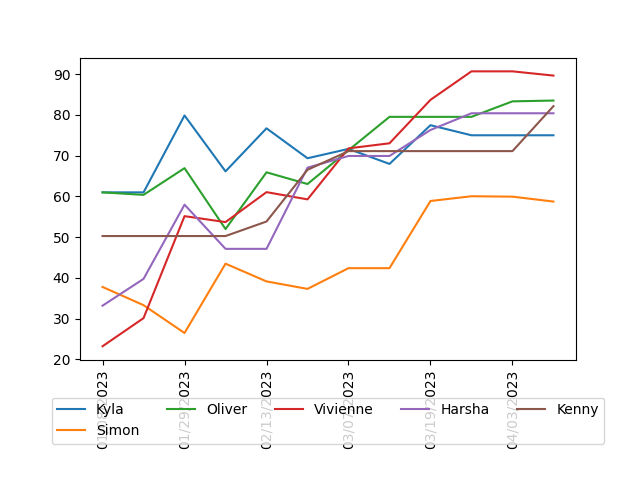
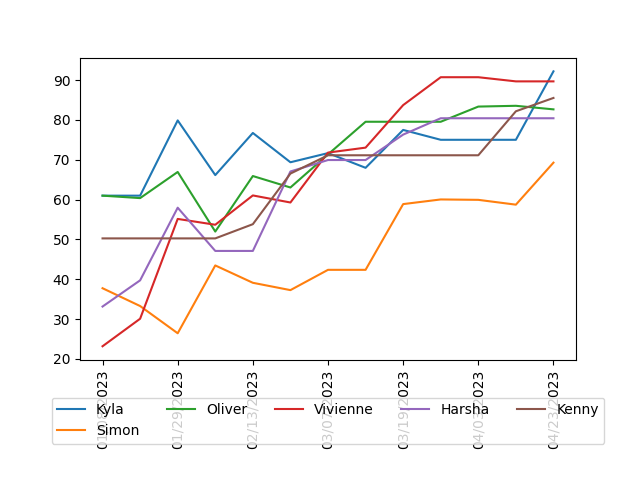
update rankings

diff --git a/README.md b/README.md
@@ -5,39 +5,39 @@
 
 | Player | ELO | Wins | Losses | Win % | Best Game |
 | --- | --- | --- | --- | --- | --- |
-| Vivienne | 89.67 | 23 | 13 | 0.64 | Secret Hitler |
-| Oliver | 83.54 | 19 | 20 | 0.49 | Secret Hitler |
-| Kenny | 82.16 | 14 | 10 | 0.58 | Secret Hitler |
-| Harsha | 80.41 | 17 | 16 | 0.52 | Secret Hitler |
-| Dan | 77.85 | 3 | 5 | 0.38 | Secret Hitler |
-| Kyla | 75.00 | 21 | 19 | 0.53 | Secret Hitler |
-| Karen | 69.00 | 2 | 1 | 0.67 | Codenames |
-| Diana | 64.95 | 2 | 2 | 0.50 | Codenames |
-| Rob | 63.15 | 3 | 1 | 0.75 | Codenames |
-| Simon | 58.73 | 14 | 23 | 0.38 | Wavelength |
-| Frances | 52.22 | 3 | 1 | 0.75 | Codenames |
-| Aaron | 49.47 | 6 | 10 | 0.38 | Incan Gold |
-| Jason | 47.52 | 3 | 4 | 0.43 | Wavelength |
-| Abhi | 47.51 | 3 | 3 | 0.50 | Wavelength |
-| Kai | 47.09 | 5 | 7 | 0.42 | Secret Hitler |
-| Leo | 45.47 | 1 | 4 | 0.20 | Incan Gold |
-| Queenie | 43.87 | 4 | 8 | 0.33 | Secret Hitler |
-| Fred | 43.59 | 1 | 1 | 0.50 | Codenames |
-| Eunice | 41.96 | 1 | 1 | 0.50 | Wavelength |
-| Dari | 41.73 | 2 | 2 | 0.50 | Codenames |
-| Yoyo | 41.68 | 1 | 1 | 0.50 | Secret Hitler |
-| Ellabelle | 38.67 | 1 | 7 | 0.12 | Avalon |
-| Nikiny | 37.56 | 3 | 9 | 0.25 | Secret Hitler |
-| Calvin | 31.25 | 3 | 7 | 0.30 | Secret Hitler |
-| Agnes | 27.82 | 1 | 4 | 0.20 | Avalon |
-| Peter | 25.71 | 2 | 4 | 0.33 | Secret Hitler |
-| Katrina | 25.63 | 2 | 3 | 0.40 | Codenames |
-| Ashley | 21.75 | 0 | 2 | 0.00 | Secret Hitler |
-| Sandy | 21.08 | 0 | 2 | 0.00 | Codenames |
-| Vivian | 18.94 | 0 | 2 | 0.00 | Secret Hitler |
-| Louise | 15.50 | 0 | 5 | 0.00 | Incan Gold |
-| Shirley | 8.62 | 0 | 4 | 0.00 | Wavelength |
-| Dorine | 1.92 | 0 | 6 | 0.00 | Incan Gold |
+| Kyla | 92.18 | 24 | 21 | 53% | Secret Hitler |
+| Vivienne | 89.67 | 23 | 13 | 64% | Secret Hitler |
+| Nikiny | 88.92 | 6 | 12 | 33% | Cash n Guns |
+| Kenny | 85.50 | 15 | 13 | 54% | Cash n Guns |
+| Oliver | 82.64 | 21 | 22 | 49% | Secret Hitler |
+| Harsha | 80.41 | 17 | 16 | 52% | Secret Hitler |
+| Dan | 77.85 | 3 | 5 | 38% | Secret Hitler |
+| Simon | 69.27 | 16 | 27 | 37% | Cash n Guns |
+| Karen | 69.00 | 2 | 1 | 67% | Codenames |
+| Rob | 63.15 | 3 | 1 | 75% | Codenames |
+| Frances | 52.22 | 3 | 1 | 75% | Codenames |
+| Diana | 51.37 | 2 | 5 | 29% | Codenames |
+| Aaron | 49.47 | 6 | 10 | 38% | Incan Gold |
+| Jason | 47.52 | 3 | 4 | 43% | Wavelength |
+| Abhi | 47.51 | 3 | 3 | 50% | Wavelength |
+| Kai | 47.09 | 5 | 7 | 42% | Secret Hitler |
+| Calvin | 44.01 | 4 | 9 | 31% | Secret Hitler |
+| Queenie | 43.87 | 4 | 8 | 33% | Secret Hitler |
+| Fred | 43.59 | 1 | 1 | 50% | Codenames |
+| Peter | 43.44 | 5 | 4 | 56% | Secret Hitler |
+| Eunice | 41.96 | 1 | 1 | 50% | Wavelength |
+| Dari | 41.73 | 2 | 2 | 50% | Codenames |
+| Yoyo | 41.68 | 1 | 1 | 50% | Secret Hitler |
+| Leo | 38.87 | 3 | 6 | 33% | Secret Hitler |
+| Ellabelle | 38.67 | 1 | 7 | 12% | Avalon |
+| Agnes | 27.82 | 1 | 4 | 20% | Avalon |
+| Katrina | 25.63 | 2 | 3 | 40% | Codenames |
+| Ashley | 21.75 | 0 | 2 | 0% | Secret Hitler |
+| Sandy | 21.08 | 0 | 2 | 0% | Codenames |
+| Vivian | 18.94 | 0 | 2 | 0% | Secret Hitler |
+| Louise | 15.50 | 0 | 5 | 0% | Incan Gold |
+| Shirley | 8.62 | 0 | 4 | 0% | Wavelength |
+| Dorine | 1.92 | 0 | 6 | 0% | Incan Gold |
 
 ### Rankings over Time
 ![Image](rankings.png)
@@ -48,177 +48,189 @@
 
 | Player | ELO | Wins | Losses | Win % |
 | --- | --- | --- | --- | --- |
-| Kyla | 80.73  | 9 | 5 | 0.64 |
-| Oliver | 77.95  | 8 | 3 | 0.73 |
-| Vivienne | 76.61  | 10 | 5 | 0.67 |
-| Kenny | 68.54  | 6 | 1 | 0.86 |
-| Harsha | 66.61  | 9 | 6 | 0.60 |
-| Dan | 56.48  | 2 | 0 | 1.00 |
-| Queenie | 55.89  | 3 | 0 | 1.00 |
-| Calvin | 47.50  | 2 | 1 | 0.67 |
-| Rob | 44.11  | 1 | 1 | 0.50 |
-| Abhi | 42.83  | 1 | 0 | 1.00 |
-| Jason | 42.83  | 1 | 0 | 1.00 |
-| Peter | 42.83  | 1 | 0 | 1.00 |
-| Simon | 42.75  | 6 | 7 | 0.46 |
-| Leo | 42.69  | 1 | 0 | 1.00 |
-| Aaron | 41.58  | 2 | 1 | 0.67 |
-| Kai | 41.02  | 2 | 2 | 0.50 |
-| Yoyo | 38.85  | 1 | 1 | 0.50 |
-| Nikiny | 36.43  | 2 | 2 | 0.50 |
-| Dari | 34.62  | 1 | 2 | 0.33 |
-| Frances | 30.73  | 1 | 1 | 0.50 |
-| Karen | 28.14  | 0 | 1 | 0.00 |
-| Diana | 28.14  | 0 | 1 | 0.00 |
-| Vivian | 27.44  | 0 | 1 | 0.00 |
-| Eunice | 27.44  | 0 | 1 | 0.00 |
-| Fred | 27.33  | 0 | 1 | 0.00 |
-| Sandy | 26.10  | 0 | 1 | 0.00 |
-| Ellabelle | 24.10  | 0 | 2 | 0.00 |
-| Ashley | 24.10  | 0 | 2 | 0.00 |
-| Shirley | 21.38  | 0 | 2 | 0.00 |
-| Dorine | 19.94  | 0 | 2 | 0.00 |
+| Kyla | 83.77  | 10 | 5 | 67% |
+| Oliver | 81.64  | 9 | 3 | 75% |
+| Vivienne | 76.61  | 10 | 5 | 67% |
+| Harsha | 66.61  | 9 | 6 | 60% |
+| Kenny | 65.81  | 6 | 2 | 75% |
+| Dan | 56.48  | 2 | 0 | 100% |
+| Queenie | 55.89  | 3 | 0 | 100% |
+| Peter | 49.06  | 2 | 0 | 100% |
+| Leo | 48.95  | 2 | 0 | 100% |
+| Calvin | 47.50  | 2 | 1 | 67% |
+| Rob | 44.11  | 1 | 1 | 50% |
+| Abhi | 42.83  | 1 | 0 | 100% |
+| Jason | 42.83  | 1 | 0 | 100% |
+| Aaron | 41.58  | 2 | 1 | 67% |
+| Nikiny | 41.53  | 3 | 2 | 60% |
+| Kai | 41.02  | 2 | 2 | 50% |
+| Simon | 40.78  | 6 | 8 | 43% |
+| Yoyo | 38.85  | 1 | 1 | 50% |
+| Dari | 34.62  | 1 | 2 | 33% |
+| Frances | 30.73  | 1 | 1 | 50% |
+| Karen | 28.14  | 0 | 1 | 0% |
+| Vivian | 27.44  | 0 | 1 | 0% |
+| Eunice | 27.44  | 0 | 1 | 0% |
+| Fred | 27.33  | 0 | 1 | 0% |
+| Sandy | 26.10  | 0 | 1 | 0% |
+| Diana | 24.92  | 0 | 2 | 0% |
+| Ellabelle | 24.10  | 0 | 2 | 0% |
+| Ashley | 24.10  | 0 | 2 | 0% |
+| Shirley | 21.38  | 0 | 2 | 0% |
+| Dorine | 19.94  | 0 | 2 | 0% |
 
 ### Codenames
 
 | Player | ELO | Wins | Losses | Win % |
 | --- | --- | --- | --- | --- |
-| Vivienne | 75.08  | 7 | 2 | 0.78 |
-| Kenny | 56.55  | 4 | 2 | 0.67 |
-| Harsha | 56.24  | 5 | 3 | 0.62 |
-| Kyla | 52.00  | 6 | 4 | 0.60 |
-| Diana | 50.80  | 1 | 0 | 1.00 |
-| Karen | 50.80  | 1 | 0 | 1.00 |
-| Fred | 48.43  | 1 | 0 | 1.00 |
-| Rob | 48.41  | 1 | 0 | 1.00 |
-| Frances | 48.41  | 1 | 0 | 1.00 |
-| Katrina | 46.85  | 2 | 0 | 1.00 |
-| Dari | 46.30  | 1 | 0 | 1.00 |
-| Simon | 42.53  | 4 | 6 | 0.40 |
-| Oliver | 39.10  | 4 | 4 | 0.50 |
-| Nikiny | 34.05  | 1 | 2 | 0.33 |
-| Kai | 33.68  | 1 | 2 | 0.33 |
-| Aaron | 32.97  | 1 | 3 | 0.25 |
-| Ellabelle | 27.70  | 0 | 1 | 0.00 |
-| Sandy | 26.42  | 0 | 1 | 0.00 |
-| Dorine | 26.24  | 0 | 1 | 0.00 |
-| Louise | 25.05  | 0 | 2 | 0.00 |
-| Jason | 25.05  | 0 | 2 | 0.00 |
-| Agnes | 25.05  | 0 | 2 | 0.00 |
-| Calvin | 23.92  | 1 | 3 | 0.25 |
-| Shirley | 23.77  | 0 | 1 | 0.00 |
-| Dan | 23.44  | 0 | 2 | 0.00 |
-| Leo | 23.00  | 0 | 1 | 0.00 |
-| Queenie | 17.80  | 0 | 2 | 0.00 |
+| Vivienne | 75.08  | 7 | 2 | 78% |
+| Kenny | 57.00  | 5 | 3 | 62% |
+| Kyla | 56.75  | 7 | 5 | 58% |
+| Harsha | 56.24  | 5 | 3 | 62% |
+| Diana | 50.80  | 1 | 0 | 100% |
+| Karen | 50.80  | 1 | 0 | 100% |
+| Fred | 48.43  | 1 | 0 | 100% |
+| Rob | 48.41  | 1 | 0 | 100% |
+| Frances | 48.41  | 1 | 0 | 100% |
+| Katrina | 46.85  | 2 | 0 | 100% |
+| Dari | 46.30  | 1 | 0 | 100% |
+| Oliver | 44.53  | 5 | 5 | 50% |
+| Simon | 42.48  | 5 | 7 | 42% |
+| Nikiny | 34.91  | 2 | 3 | 40% |
+| Kai | 33.68  | 1 | 2 | 33% |
+| Aaron | 32.97  | 1 | 3 | 25% |
+| Leo | 31.58  | 1 | 2 | 33% |
+| Ellabelle | 27.70  | 0 | 1 | 0% |
+| Sandy | 26.42  | 0 | 1 | 0% |
+| Dorine | 26.24  | 0 | 1 | 0% |
+| Louise | 25.05  | 0 | 2 | 0% |
+| Jason | 25.05  | 0 | 2 | 0% |
+| Agnes | 25.05  | 0 | 2 | 0% |
+| Calvin | 24.79  | 2 | 4 | 33% |
+| Shirley | 23.77  | 0 | 1 | 0% |
+| Dan | 23.44  | 0 | 2 | 0% |
+| Queenie | 17.80  | 0 | 2 | 0% |
 
 ### Exploding Kittens
 
 | Player | ELO | Wins | Losses | Win % |
 | --- | --- | --- | --- | --- |
-| Simon | 41.65  | 1 | 0 | 1.00 |
-| Vivienne | 38.65  | 1 | 0 | 1.00 |
-| Queenie | 37.45  | 0 | 1 | 0.00 |
-| Oliver | 34.08  | 0 | 2 | 0.00 |
-| Kenny | 33.17  | 0 | 1 | 0.00 |
-| Harsha | 33.17  | 0 | 1 | 0.00 |
-| Kyla | 33.17  | 0 | 1 | 0.00 |
-| Abhi | 30.97  | 0 | 1 | 0.00 |
-| Peter | 26.43  | 0 | 1 | 0.00 |
+| Simon | 41.65  | 1 | 0 | 100% |
+| Vivienne | 38.65  | 1 | 0 | 100% |
+| Queenie | 37.45  | 0 | 1 | 0% |
+| Oliver | 34.08  | 0 | 2 | 0% |
+| Kenny | 33.17  | 0 | 1 | 0% |
+| Harsha | 33.17  | 0 | 1 | 0% |
+| Kyla | 33.17  | 0 | 1 | 0% |
+| Abhi | 30.97  | 0 | 1 | 0% |
+| Peter | 26.43  | 0 | 1 | 0% |
 
 ### Wavelength
 
 | Player | ELO | Wins | Losses | Win % |
 | --- | --- | --- | --- | --- |
-| Queenie | 50.35  | 1 | 0 | 1.00 |
-| Harsha | 46.20  | 3 | 2 | 0.60 |
-| Simon | 45.90  | 2 | 2 | 0.50 |
-| Diana | 43.98  | 1 | 0 | 1.00 |
-| Karen | 43.98  | 1 | 0 | 1.00 |
-| Jason | 43.90  | 1 | 0 | 1.00 |
-| Eunice | 43.90  | 1 | 0 | 1.00 |
-| Abhi | 42.90  | 1 | 1 | 0.50 |
-| Rob | 41.34  | 1 | 0 | 1.00 |
-| Frances | 41.34  | 1 | 0 | 1.00 |
-| Kenny | 41.34  | 1 | 0 | 1.00 |
-| Kyla | 35.21  | 1 | 3 | 0.25 |
-| Vivienne | 35.21  | 1 | 3 | 0.25 |
-| Kai | 35.16  | 1 | 1 | 0.50 |
-| Oliver | 30.95  | 1 | 3 | 0.25 |
-| Shirley | 28.60  | 0 | 1 | 0.00 |
-| Vivian | 27.08  | 0 | 1 | 0.00 |
-| Dorine | 23.89  | 0 | 1 | 0.00 |
-| Peter | 17.56  | 0 | 2 | 0.00 |
+| Queenie | 50.35  | 1 | 0 | 100% |
+| Harsha | 46.20  | 3 | 2 | 60% |
+| Simon | 45.90  | 2 | 2 | 50% |
+| Diana | 43.98  | 1 | 0 | 100% |
+| Karen | 43.98  | 1 | 0 | 100% |
+| Jason | 43.90  | 1 | 0 | 100% |
+| Eunice | 43.90  | 1 | 0 | 100% |
+| Abhi | 42.90  | 1 | 1 | 50% |
+| Rob | 41.34  | 1 | 0 | 100% |
+| Frances | 41.34  | 1 | 0 | 100% |
+| Kenny | 41.34  | 1 | 0 | 100% |
+| Kyla | 35.21  | 1 | 3 | 25% |
+| Vivienne | 35.21  | 1 | 3 | 25% |
+| Kai | 35.16  | 1 | 1 | 50% |
+| Oliver | 30.95  | 1 | 3 | 25% |
+| Shirley | 28.60  | 0 | 1 | 0% |
+| Vivian | 27.08  | 0 | 1 | 0% |
+| Dorine | 23.89  | 0 | 1 | 0% |
+| Peter | 17.56  | 0 | 2 | 0% |
 
 ### Incan Gold
 
 | Player | ELO | Wins | Losses | Win % |
 | --- | --- | --- | --- | --- |
-| Kyla | 50.64  | 2 | 3 | 0.40 |
-| Vivienne | 48.37  | 3 | 2 | 0.60 |
-| Leo | 46.47  | 0 | 3 | 0.00 |
-| Aaron | 44.91  | 2 | 2 | 0.50 |
-| Kenny | 42.58  | 1 | 3 | 0.25 |
-| Kai | 40.48  | 1 | 2 | 0.33 |
-| Abhi | 38.64  | 1 | 1 | 0.50 |
-| Oliver | 37.80  | 0 | 6 | 0.00 |
-| Harsha | 37.72  | 0 | 4 | 0.00 |
-| Peter | 37.62  | 1 | 1 | 0.50 |
-| Calvin | 35.37  | 0 | 1 | 0.00 |
-| Dan | 34.54  | 0 | 1 | 0.00 |
-| Louise | 33.38  | 0 | 1 | 0.00 |
-| Agnes | 31.27  | 0 | 1 | 0.00 |
-| Dorine | 31.00  | 0 | 2 | 0.00 |
-| Diana | 30.06  | 0 | 1 | 0.00 |
-| Nikiny | 29.27  | 0 | 5 | 0.00 |
-| Jason | 28.73  | 0 | 1 | 0.00 |
-| Queenie | 26.65  | 0 | 2 | 0.00 |
-| Katrina | 24.83  | 0 | 1 | 0.00 |
-| Simon | 21.84  | 1 | 6 | 0.14 |
+| Kyla | 53.22  | 3 | 3 | 50% |
+| Vivienne | 48.37  | 3 | 2 | 60% |
+| Peter | 46.73  | 3 | 1 | 75% |
+| Leo | 46.47  | 0 | 3 | 0% |
+| Aaron | 44.91  | 2 | 2 | 50% |
+| Kenny | 42.58  | 1 | 3 | 25% |
+| Kai | 40.48  | 1 | 2 | 33% |
+| Abhi | 38.64  | 1 | 1 | 50% |
+| Oliver | 37.80  | 0 | 6 | 0% |
+| Harsha | 37.72  | 0 | 4 | 0% |
+| Calvin | 35.37  | 0 | 1 | 0% |
+| Dan | 34.54  | 0 | 1 | 0% |
+| Louise | 33.38  | 0 | 1 | 0% |
+| Agnes | 31.27  | 0 | 1 | 0% |
+| Dorine | 31.00  | 0 | 2 | 0% |
+| Nikiny | 30.40  | 0 | 7 | 0% |
+| Jason | 28.73  | 0 | 1 | 0% |
+| Queenie | 26.65  | 0 | 2 | 0% |
+| Katrina | 24.83  | 0 | 1 | 0% |
+| Simon | 23.26  | 2 | 7 | 22% |
+| Diana | 21.98  | 0 | 3 | 0% |
 
 ### Avalon
 
 | Player | ELO | Wins | Losses | Win % |
 | --- | --- | --- | --- | --- |
-| Oliver | 59.76  | 3 | 0 | 1.00 |
-| Ellabelle | 44.78  | 1 | 0 | 1.00 |
-| Dan | 44.78  | 1 | 0 | 1.00 |
-| Aaron | 36.60  | 1 | 1 | 0.50 |
-| Jason | 36.60  | 1 | 1 | 0.50 |
-| Agnes | 35.62  | 1 | 1 | 0.50 |
-| Kyla | 30.11  | 1 | 2 | 0.33 |
-| Vivienne | 27.46  | 0 | 1 | 0.00 |
-| Katrina | 22.86  | 0 | 2 | 0.00 |
-| Louise | 22.86  | 0 | 2 | 0.00 |
-| Calvin | 22.86  | 0 | 2 | 0.00 |
-| Kenny | 22.86  | 0 | 2 | 0.00 |
+| Oliver | 59.76  | 3 | 0 | 100% |
+| Ellabelle | 44.78  | 1 | 0 | 100% |
+| Dan | 44.78  | 1 | 0 | 100% |
+| Aaron | 36.60  | 1 | 1 | 50% |
+| Jason | 36.60  | 1 | 1 | 50% |
+| Agnes | 35.62  | 1 | 1 | 50% |
+| Kyla | 30.11  | 1 | 2 | 33% |
+| Vivienne | 27.46  | 0 | 1 | 0% |
+| Katrina | 22.86  | 0 | 2 | 0% |
+| Louise | 22.86  | 0 | 2 | 0% |
+| Calvin | 22.86  | 0 | 2 | 0% |
+| Kenny | 22.86  | 0 | 2 | 0% |
 
 ### Coup
 
 | Player | ELO | Wins | Losses | Win % |
 | --- | --- | --- | --- | --- |
-| Kenny | 51.20  | 1 | 0 | 1.00 |
-| Queenie | 36.91  | 0 | 1 | 0.00 |
-| Aaron | 36.91  | 0 | 1 | 0.00 |
-| Oliver | 36.91  | 0 | 1 | 0.00 |
+| Kenny | 51.20  | 1 | 0 | 100% |
+| Queenie | 36.91  | 0 | 1 | 0% |
+| Aaron | 36.91  | 0 | 1 | 0% |
+| Oliver | 36.91  | 0 | 1 | 0% |
 
 ### Shifty Eyed Spies
 
 | Player | ELO | Wins | Losses | Win % |
 | --- | --- | --- | --- | --- |
-| Oliver | 50.91  | 2 | 0 | 1.00 |
-| Kyla | 40.88  | 1 | 0 | 1.00 |
-| Kenny | 39.74  | 1 | 1 | 0.50 |
-| Queenie | 22.92  | 0 | 2 | 0.00 |
-| Ellabelle | 22.92  | 0 | 2 | 0.00 |
-| Aaron | 22.92  | 0 | 2 | 0.00 |
-| Simon | 22.92  | 0 | 2 | 0.00 |
+| Oliver | 50.91  | 2 | 0 | 100% |
+| Kyla | 40.88  | 1 | 0 | 100% |
+| Kenny | 39.74  | 1 | 1 | 50% |
+| Queenie | 22.92  | 0 | 2 | 0% |
+| Ellabelle | 22.92  | 0 | 2 | 0% |
+| Aaron | 22.92  | 0 | 2 | 0% |
+| Simon | 22.92  | 0 | 2 | 0% |
 
 ### Bang
 
 | Player | ELO | Wins | Losses | Win % |
 | --- | --- | --- | --- | --- |
-| Vivienne | 55.95  | 1 | 0 | 1.00 |
-| Kyla | 51.49  | 1 | 1 | 0.50 |
-| Oliver | 49.00  | 1 | 1 | 0.50 |
-| Ellabelle | 40.20  | 0 | 2 | 0.00 |
-| Dan | 40.20  | 0 | 2 | 0.00 |
+| Vivienne | 55.95  | 1 | 0 | 100% |
+| Kyla | 51.49  | 1 | 1 | 50% |
+| Oliver | 49.00  | 1 | 1 | 50% |
+| Ellabelle | 40.20  | 0 | 2 | 0% |
+| Dan | 40.20  | 0 | 2 | 0% |
+
+### Cash n Guns
+
+| Player | ELO | Wins | Losses | Win % |
+| --- | --- | --- | --- | --- |
+| Nikiny | 92.66  | 1 | 0 | 100% |
+| Kyla | 80.17  | 0 | 1 | 0% |
+| Kenny | 69.66  | 0 | 1 | 0% |
+| Simon | 59.54  | 0 | 1 | 0% |
+| Oliver | 48.61  | 0 | 1 | 0% |
+| Calvin | 34.97  | 0 | 1 | 0% |
+| Leo | 11.98  | 0 | 1 | 0% |
